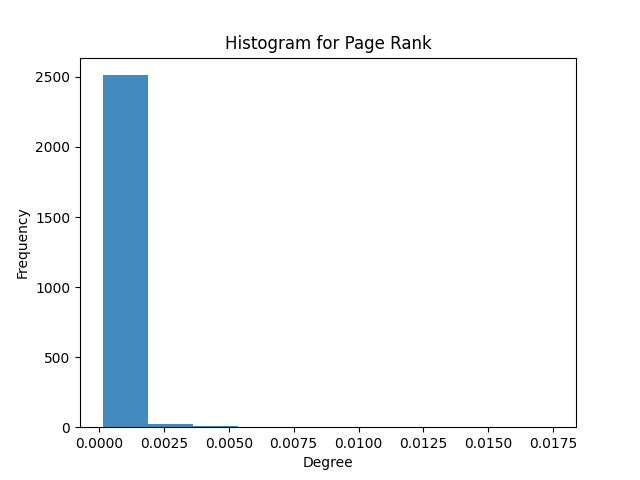
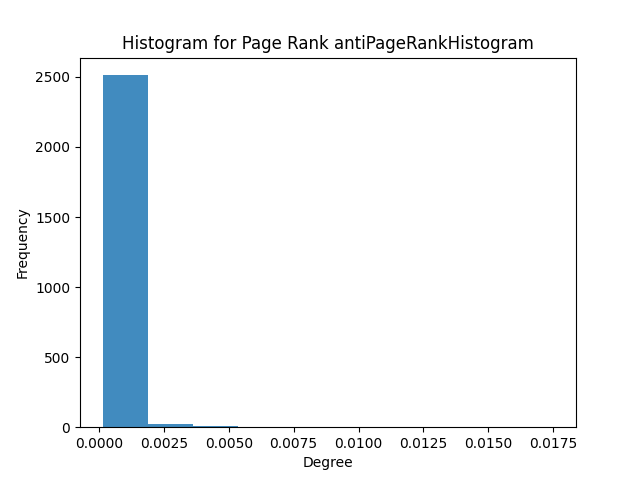
No more changing this code. This is the final product:)

Changed region(s): [[0.1875, 0.0625, 0.8438, 0.125]]

diff --git a/main.py b/main.py
@@ -75,7 +75,7 @@ def kyle():
         plt.hist(pagerank_list, alpha=0.85)
         plt.xlabel('Degree')
         plt.ylabel('Frequency')
-        plt.title('Histogram for Page Rank')
+        plt.title('Histogram for Page Rank ' + fileName)
         plt.savefig(fileName + ".png")
 
     # this function is for clustering
@@ -84,7 +84,7 @@ def kyle():
         plt.hist(clustering_coeffs_list, bins=100, range=(0.0, 1.0), density=False)
         plt.xlabel('Degree')
         plt.ylabel('Frequency')
-        plt.title('Histogram for Clustering')
+        plt.title('Histogram for Clustering ' + fileName)
         plt.savefig(fileName + ".png")
 
     # This function is for degree distribution
@@ -93,7 +93,7 @@ def kyle():
         plt.hist(degrees, bins=50, rwidth=20)
         plt.xlabel('Degree')
         plt.ylabel('Frequency')
-        plt.title('Degree Distribution of Nodes')
+        plt.title('Degree Distribution of Nodes ' + fileName)
         plt.savefig(fileName + ".png")
 
     # Creating a graph and then saving it into a png
